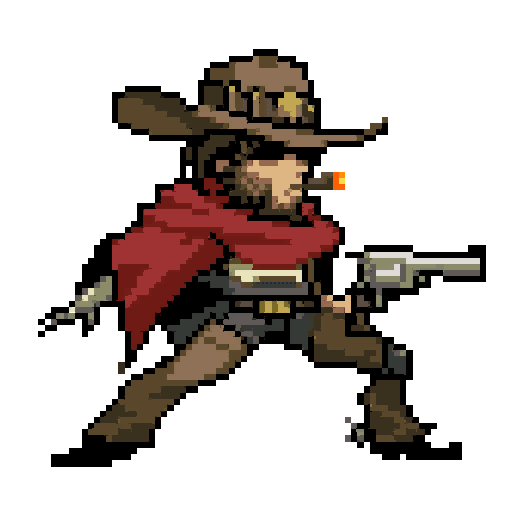
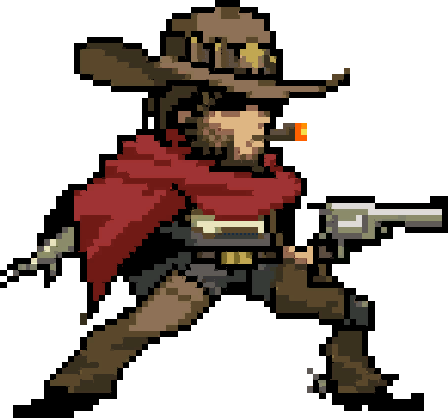
positional edits

diff --git a/McCree's Asteroid Showdown/js/Game.js b/McCree's Asteroid Showdown/js/Game.js
@@ -45,12 +45,12 @@ BasicGame.Game.prototype = {
       this.defendText = this.add.sprite(800, 50, 'defendText');
       this.defendText.anchor.setTo(0.5);
       this.game.add.tween(this.defendText).to({alpha: 0}, 3000, Phaser.Easing.Linear.None, true, 2000, 0, false);
-      this.mccree = this.add.sprite(150, 200, 'mccree');
+      this.mccree = this.add.sprite(150, 240, 'mccree');
       this.mccree.anchor.setTo(0.5, 1);
       this.mccree.scale.setTo(0.3);
-      this.earth = this.add.sprite(50, 400, 'earth');
+      this.earth = this.add.sprite(200, 400, 'earth');
       this.earth.anchor.setTo(0.5);
-      this.earth.scale.setTo(0.5);
+      this.earth.scale.setTo(0.8);
     },
 
     update: function () {
